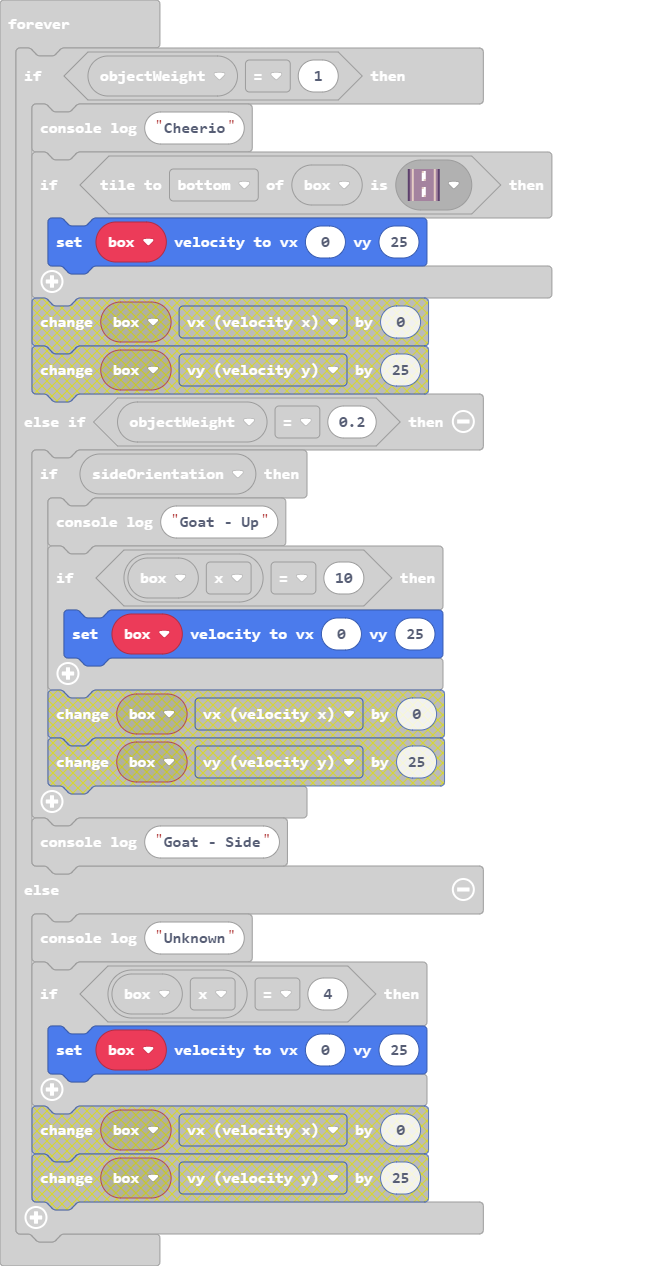
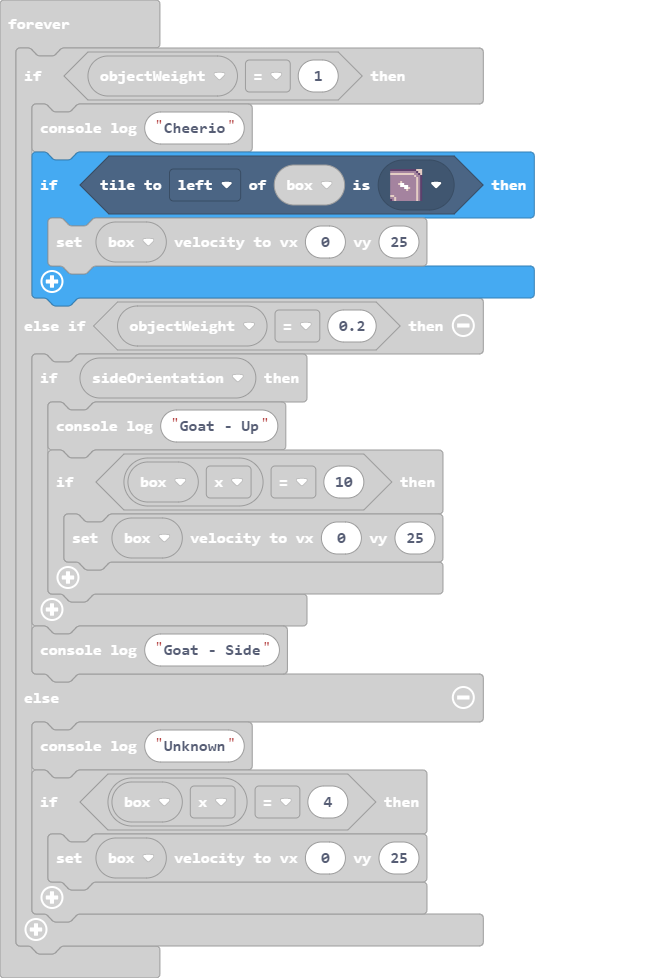
Update main.blocks, main.ts

diff --git a/main.ts b/main.ts
@@ -261,7 +261,7 @@ resetBox()
 forever(function () {
     if (objectWeight == 1) {
         console.log("Cheerio")
-        if (box.tileKindAt(TileDirection.Bottom, sprites.vehicle.roadVertical)) {
+        if (box.tileKindAt(TileDirection.Left, myTiles.tile2)) {
             box.setVelocity(0, 25)
         }
     } else if (objectWeight == 0.2) {
